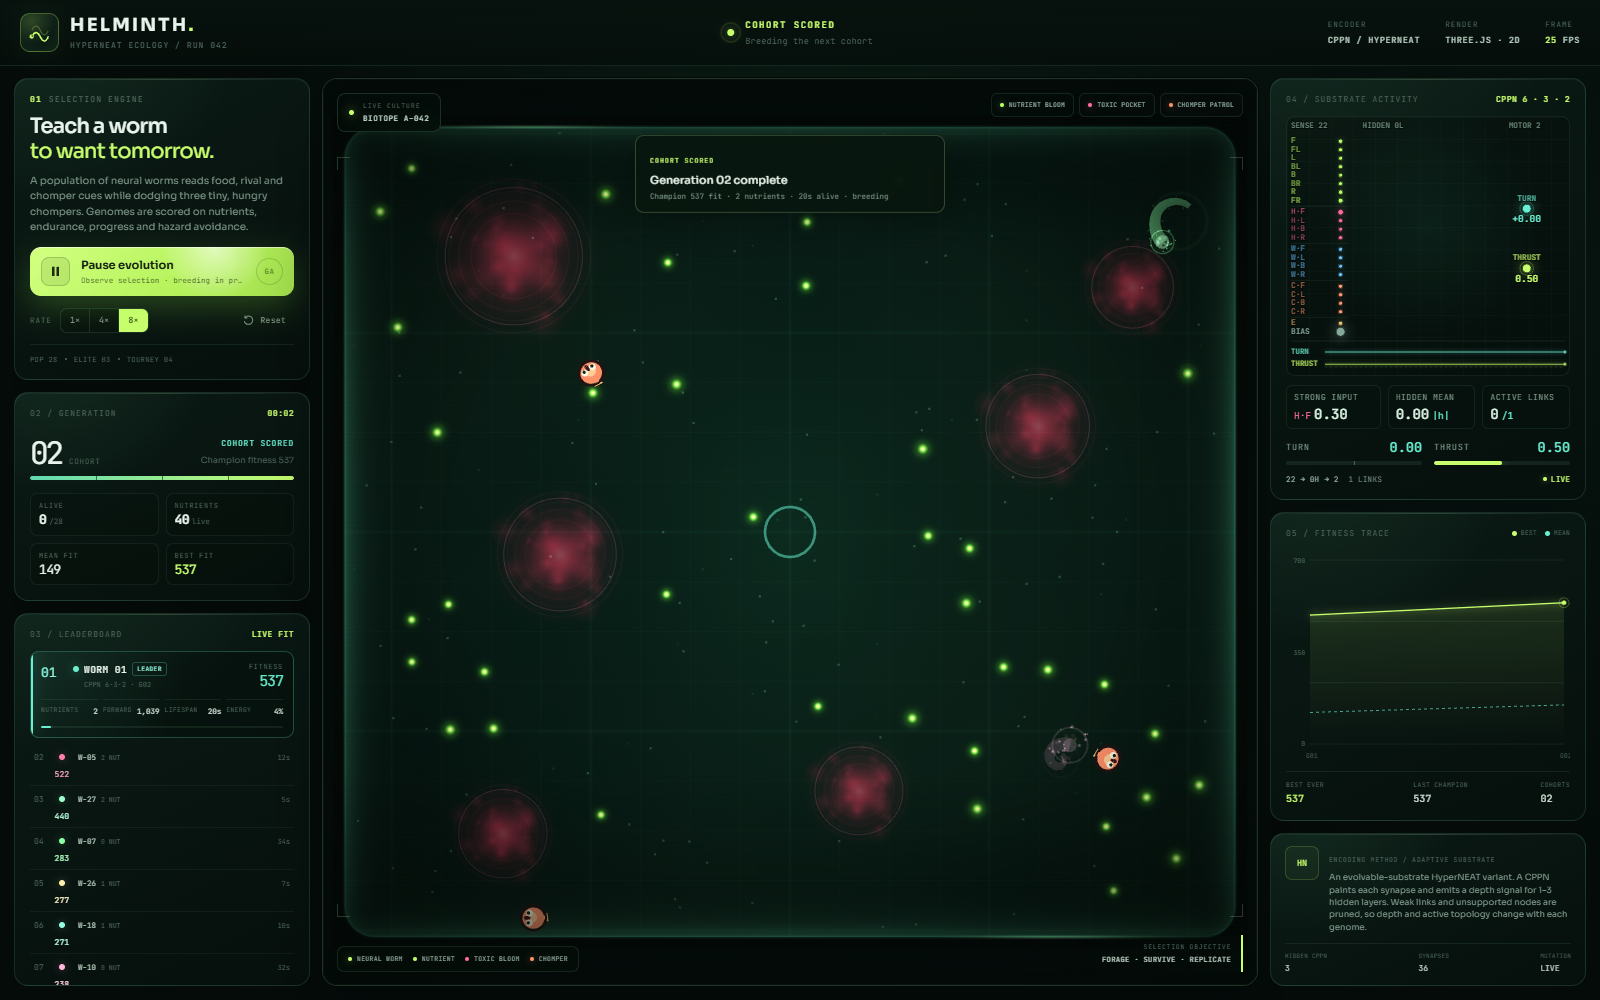
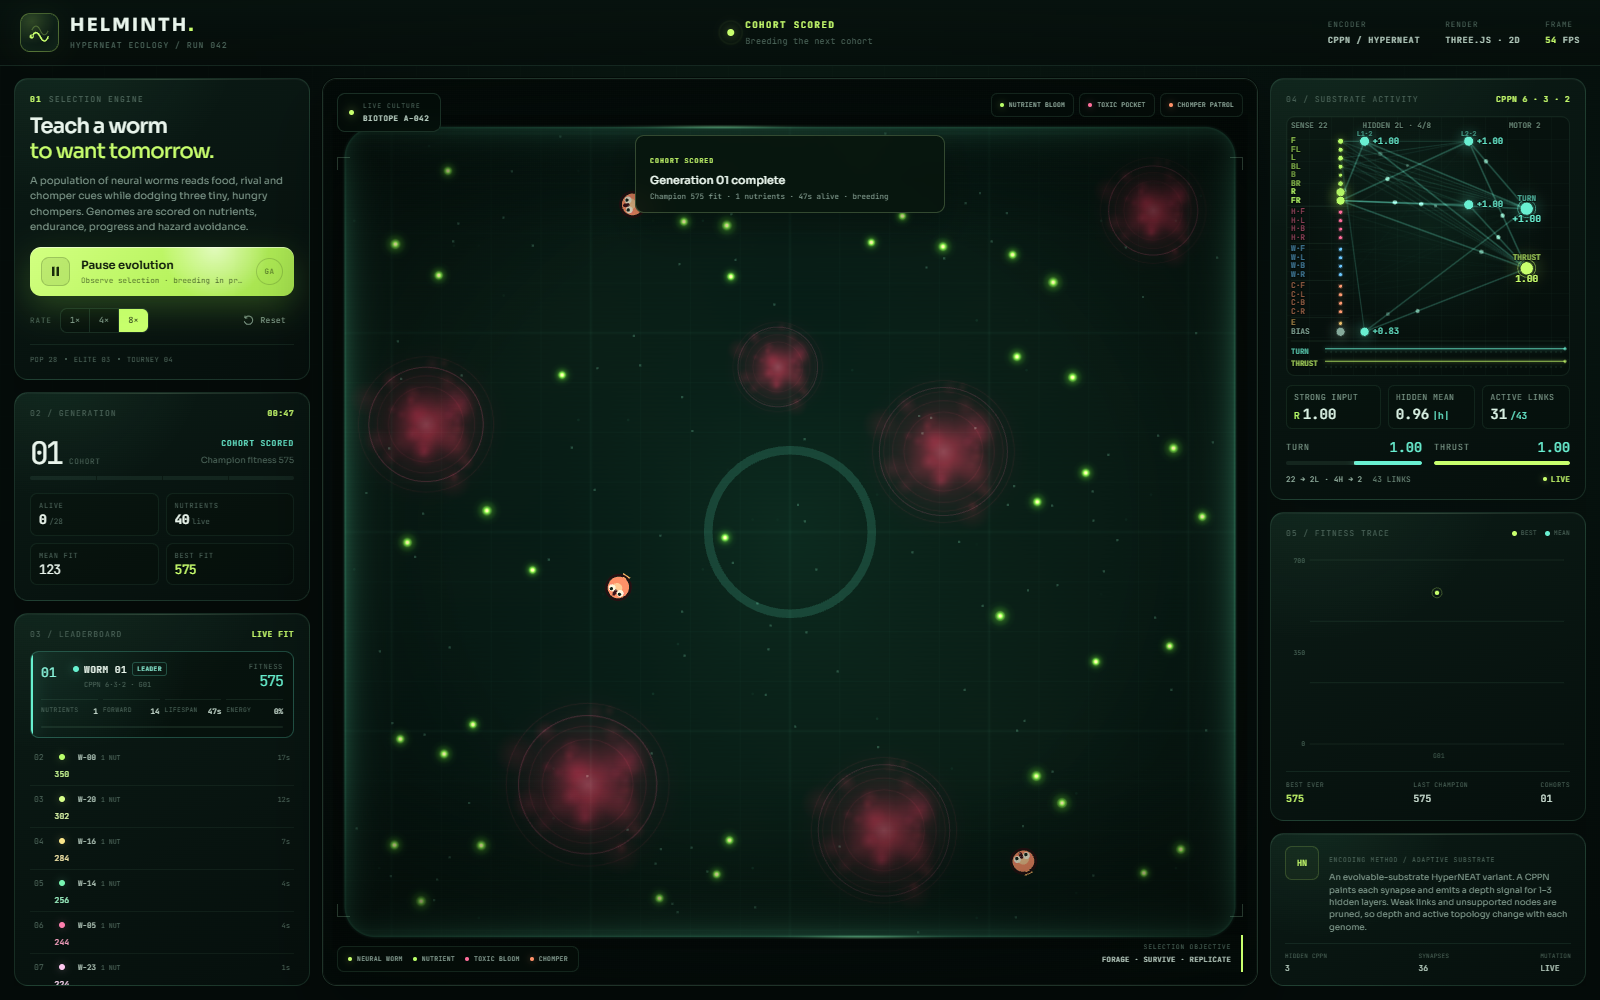
End generations on extinction instead of a timer

diff --git a/src/ui/dashboard.js b/src/ui/dashboard.js
@@ -1,4 +1,3 @@
-import { CONFIG } from '../config.js';
 import { SUBSTRATE_LAYOUT } from '../neat/hyperneat.js';
 
 const numberFormat = new Intl.NumberFormat('en-US');
@@ -8,9 +7,9 @@ function formatInteger(value) {
 }
 
 function formatTimer(seconds) {
-  const clamped = Math.max(0, Math.ceil(seconds));
-  const minutes = Math.floor(clamped / 60);
-  const remainder = clamped % 60;
+  const elapsed = Math.max(0, Math.floor(seconds));
+  const minutes = Math.floor(elapsed / 60);
+  const remainder = elapsed % 60;
   return `${String(minutes).padStart(2, '0')}:${String(remainder).padStart(2, '0')}`;
 }
 
@@ -226,11 +225,11 @@ export class Dashboard {
 
     const generation = String(evolution.generation).padStart(2, '0');
     this.setText(this.genNumber, generation);
-    this.setText(this.genTime, formatTimer(evolution.timeLeft));
-    const progress = intermission
-      ? 100
-      : Math.min(100, (evolution.elapsed / CONFIG.episodeSeconds) * 100);
-    this.genProgress.style.width = `${progress.toFixed(2)}%`;
+    this.setText(this.genTime, formatTimer(evolution.elapsed));
+    const survival = intermission
+      ? 0
+      : (evolution.aliveCount / Math.max(1, evolution.agents.length)) * 100;
+    this.genProgress.style.width = `${survival.toFixed(2)}%`;
 
     const alive = evolution.agents.filter((agent) => agent.worm.alive).length;
     const average =

diff --git a/src/evolution.js b/src/evolution.js
@@ -8,7 +8,7 @@ import { buildSubstrate } from './neat/hyperneat.js';
 import { resolveWormCollisions } from './sim/collisions.js';
 import { Ecology } from './sim/ecology.js';
 import { ChomperPack } from './sim/predators.js';
-import { clamp, mulberry32 } from './sim/random.js';
+import { mulberry32 } from './sim/random.js';
 import { Worm } from './sim/worm.js';
 
 const ENVIRONMENT_SEED_STEP = 7919;
@@ -165,13 +165,12 @@ export class Evolution {
       0,
     );
 
-    if (this.elapsed >= this.config.episodeSeconds || this.timeAlive === 0) {
+    if (this.timeAlive === 0) {
       this.completeGeneration();
     }
   }
 
   completeGeneration() {
-    this.elapsed = Math.min(this.elapsed, this.config.episodeSeconds);
     this.phase = 'intermission';
     this.ranking = [...this.agents].sort(
       (a, b) => b.worm.fitness - a.worm.fitness || a.index - b.index,
@@ -248,10 +247,6 @@ export class Evolution {
       nodes: genome.nodes.map((node) => ({ ...node })),
       connections: genome.connections.map((connection) => ({ ...connection })),
     };
-  }
-
-  get timeLeft() {
-    return clamp(this.config.episodeSeconds - this.elapsed, 0, this.config.episodeSeconds);
   }
 
   get leader() {

diff --git a/index.html b/index.html
@@ -128,7 +128,7 @@
           <section class="panel generation-panel">
             <div class="section-heading">
               <span>02 / GENERATION</span>
-              <strong id="genTime">00:36</strong>
+              <strong id="genTime" title="Elapsed generation time">00:00</strong>
             </div>
             <div class="generation-readout">
               <div class="gen-number">

diff --git a/src/config.js b/src/config.js
@@ -9,7 +9,6 @@ export const STEP = 1 / 60;
 export const CONFIG = Object.freeze({
   seed: 4217,
   populationSize: 28,
-  episodeSeconds: 36,
   eliteCount: 3,
   tournamentSize: 4,
   crossoverRate: 0.72,

diff --git a/README.md b/README.md
@@ -72,7 +72,7 @@ The substrate close-up shows the evolved topology in motion: food, hazard, rival
 5. **Score.** Fitness combines food, survival time, distance travelled, net forward progress, remaining energy, and hazard exposure.
 6. **Select.** The population is ranked; elites survive, and tournament selection with crossover and mutation produces the next cohort.
 
-Episodes last 36 seconds. A generation ends when the timer expires or no worms remain. The default population is 28 worms, with 3 elites, tournament size 4, crossover rate 0.72, and a 4×/8× fast-forward control.
+There is no generation time limit. A generation ends only when the last worm dies. The default population is 28 worms, with 3 elites, tournament size 4, crossover rate 0.72, and a 4×/8× fast-forward control.
 
 ## Adaptive substrate
 
@@ -153,12 +153,13 @@ assess/                Playwright visual and behavioral assessment
 
 ## Verification
 
-`npm run assess` currently passes **17/17** checks, including:
+`npm run assess` currently passes **18/18** checks, including:
 
 - WebGL arena geometry and visible motion;
 - three active chompers;
 - 22 sensors with food, hazard, worm, and chomper channels;
 - cohort scoring and advancement to the next generation;
+- intermission only after every worm has died;
 - pause/resume behavior;
 - rendered fitness trace;
 - 1440×900 compact layout with no clipped panels or page overflow;
